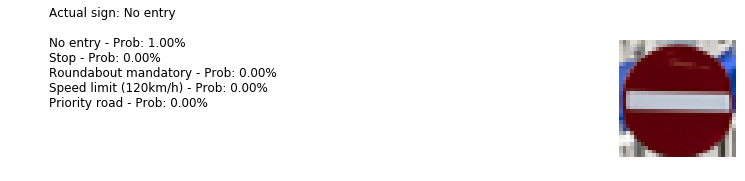
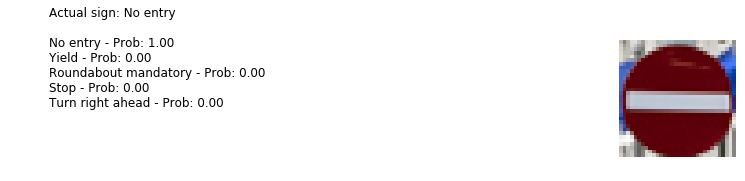
Updated write up MD file. Added new images

Changed region(s): [[0.0617, 0.3867, 0.3705, 0.6077], [0.0617, 0.2762, 0.2161, 0.3591], [0.2161, 0.1934, 0.247, 0.2486]]

diff --git a/Project2/Traffic_Sign_Classifier Writeup.md b/Project2/Traffic_Sign_Classifier Writeup.md
@@ -2,18 +2,18 @@
 
 ## Project Objective
 
-The objective of this project was to build a neural network classifier that can recognise traffic signs. 
+The objective of this project was to build a neural network classifier that can recognize traffic signs. 
 
 ## Rubric points 
 
-In this section I will address each of the rubric points. For the code used in this project, please review the Jupyter Notebook located at XXXX
+In this writeup,  I will address each of the rubric points. For the code used in this project, please review the Jupyter Notebook located on [Github](https://github.com/dvd940/Udacity_Self-Driving_Car/blob/master/Project2/Traffic_Sign_Classifier.ipynb)
 
 
 ## Dataset Exploration
 
 ### Data Exploration - Basic Summary
 
-The dataset used for training this neural network was the [http://benchmark.ini.rub.de/?section=gtsrb&subsection=dataset](German Traffic Sign Dataset).
+The dataset used for training this neural network was the [German Traffic Sign Dataset](http://benchmark.ini.rub.de/?section=gtsrb&subsection=dataset).
 
 * The number of training examples in the dataset is 34799 samples
 
@@ -43,9 +43,11 @@ Following is a histogram of the class labels. It is interesting that not every s
 
 ### Preprocessing
 
-Prior to training, the images were converted to grayscale. This should improve training time since the 3 color channels can add to the complexity of the calculations. Also, experiments by [http://yann.lecun.com/exdb/publis/pdf/sermanet-ijcnn-11.pdf](Pierre Sermanet and Yann LeCun) indicate that using grayscale images can improve accuracy. 
+Prior to training, the images were converted to grayscale. This should improve training time since the 3 color channels can add to the complexity of the calculations. Also, experiments by [Pierre Sermanet and Yann LeCun](http://yann.lecun.com/exdb/publis/pdf/sermanet-ijcnn-11.pdf) indicate that using grayscale images can improve accuracy. 
 
-The images were normalized (mean zero and equal variance) to improve numerical stability which helps the network optimize in a more efficent manner.
+The images were normalized (mean zero and equal variance) to improve numerical stability which helps the network optimize in a more efficient manner.
+
+The train data was then shuffled in case that the data was in some predetermined order.
 
 
 ### Model Architecture
@@ -54,8 +56,9 @@ The model architecture used was based on the LeNet-5 architecture developed by Y
 
 Changes to the standard LeNet-5 architecture includes adding dropout after each of the first two fully connected layers with the aim of reducing overfitting.
 
+
 | Layer | Type | Activation | Input| Output |
-|:-------:|:------:|:------------:|:--------:|
+|:---:|:---:|:---:|:---:|:---:|
 | Conv1 | 2 D Convolutional | ReLU | 32 x 32 x 1 | 28 x 28 x 6 |
 | MaxPool1 | Max pool layer | N/A | 28 x 28 x 6 | 14 x 14 x 6 |
 | Conv2 | 2 D Convolutional | ReLU |14 x 14 x 6 | 10 x 10 x 16 |
@@ -68,7 +71,7 @@ Changes to the standard LeNet-5 architecture includes adding dropout after each 
 
 ### Model Training
 
-The model was trainined using the Adam Optimizer.
+The model was trained using the Adam Optimizer.
 
 A batch size was chosen to be 256.
 
@@ -80,10 +83,10 @@ A learning rate of 0.001 was used.
 
 ### Solution Approach
 
-During training, the accuracy was evalated for each epoch using a validition set. After 50 epochs, the valdation set accuracy was **0.956**.
+During training, the accuracy was evaluated for each epoch using a validation set. After 50 epochs, the validation set accuracy was **0.954**.
 
 
-The final model was then tested on a hold out test set. The accuracy on this unseen test set was **0.94**.
+The final model was then tested on a hold out test set. The accuracy on this unseen test set was **0.933**.
 
 
 
@@ -91,22 +94,22 @@ The final model was then tested on a hold out test set. The accuracy on this uns
 
 ### Acquiring New Images
 
-6 images were downloaded from the web found using a google image search for "german road signs". Care was taken to not use images that had watermarks to avoid potential noise that the nueral network had not seen before.
+6 images were downloaded from the web found using a google image search for "german road signs". Care was taken to not use images that had watermarks to avoid potential noise that the neural network had not seen before.
 
-The dimensitons of each images was converted to 32 x 32 in Adobe lightroom to match the images used during training.
+The dimensions of each images were converted to 32 x 32 in Adobe Lightroom to match the images used during training.
 
 ![downloaded images](writeup_images/downloaded_images.png)
 
 Some of these images, for example "No entry" and "Turn right ahead", are quite distinctive and it would be expected that these may be classified correctly. 
 
-However, images like the "Wild animals crossing" and "Double curve" are not as distinctive, especially at low resolution. So it would be possible that these image could be miscategorized. 
+However, images like the "Wild animals crossing" and "Double curve" are not as distinctive, especially at low resolution. There are many signs which take the form of a white triangle with a red border and a graphic in the center. So it would be possible that these image could be mis-categorized. 
 
-Also, the frequcy count for "Double curve" was quite low at only 270.
+Also, the frequecy count for "Double curve" was quite low at only 270.
 
 
 ### Performance on New Images
 
-Predictions were made on the downloaded images and the network correctly predicted 4 out of the 6 images (0.667)
+Predictions were made on the downloaded images and the network correctly predicted 4 out of the 6 images. That is an accurracy of 0.667.
 
 Predicted: Speed limit (100km/h), Actual: Speed limit (100km/h)
 
@@ -116,9 +119,9 @@ Predicted: No entry, Actual: No entry
 
 Predicted: Priority road, Actual: Priority road
 
-Predicted: Slippery road, Actual: Wild animals crossing
+Predicted: Children crossing, Actual: Wild animals crossing
 
-Predicted: Slippery road, Actual: Double curve
+Predicted: Children crossing, Actual: Double curve
 
 
 ### Model Certainty - Softmax Probabilities
@@ -127,9 +130,6 @@ Looking at the softmax output for each of the predictions, it can bee seen that 
 
 
 #### Correct predictions
-
-## NEED TO REDO THESE IMAGES WITHOUT THE %
-
 
 ![softmax images](writeup_images/softmax1.png)
 
@@ -141,17 +141,17 @@ Looking at the softmax output for each of the predictions, it can bee seen that 
 
 #### Incorrect predictions
 
-However, this was not the case for "Wild animals crossing" and "Double curve" where both were predicted to be "Slippery road".
+However, this was not the case for "Wild animals crossing" and "Double curve" where both were predicted to be "Children crossing".
 
 ![softmax images](writeup_images/softmax5.png)
 
 ![softmax images](writeup_images/softmax6.png)
 
 
-It can be seen using an image from [https://en.wikipedia.org/wiki/Road_signs_in_Germany](Wikipedia) that the "Slippery road" sign does bare some resemblance to both of the miscategorized signs.
+It can be seen using an image from [Wikipedia](https://en.wikipedia.org/wiki/Road_signs_in_Germany) that the "Children crossing" sign does bare some resemblance to both mis-categorized signs.
 
 
-![slippery road](writeup_images/slippery_road.png)
+![children crossing](writeup_images/children.png)
 
 
 
